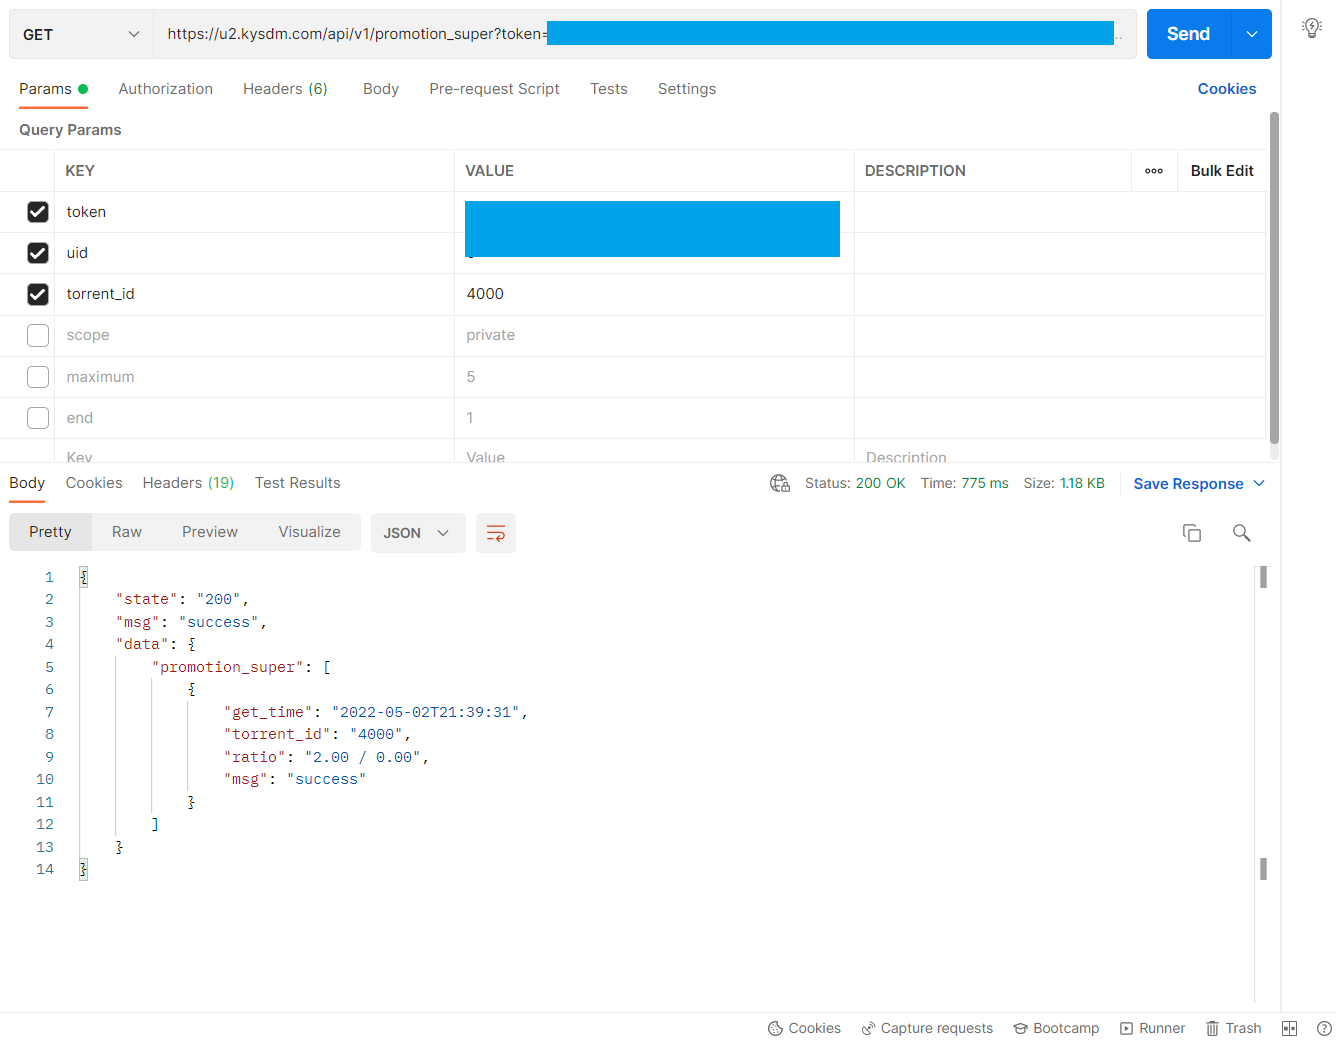
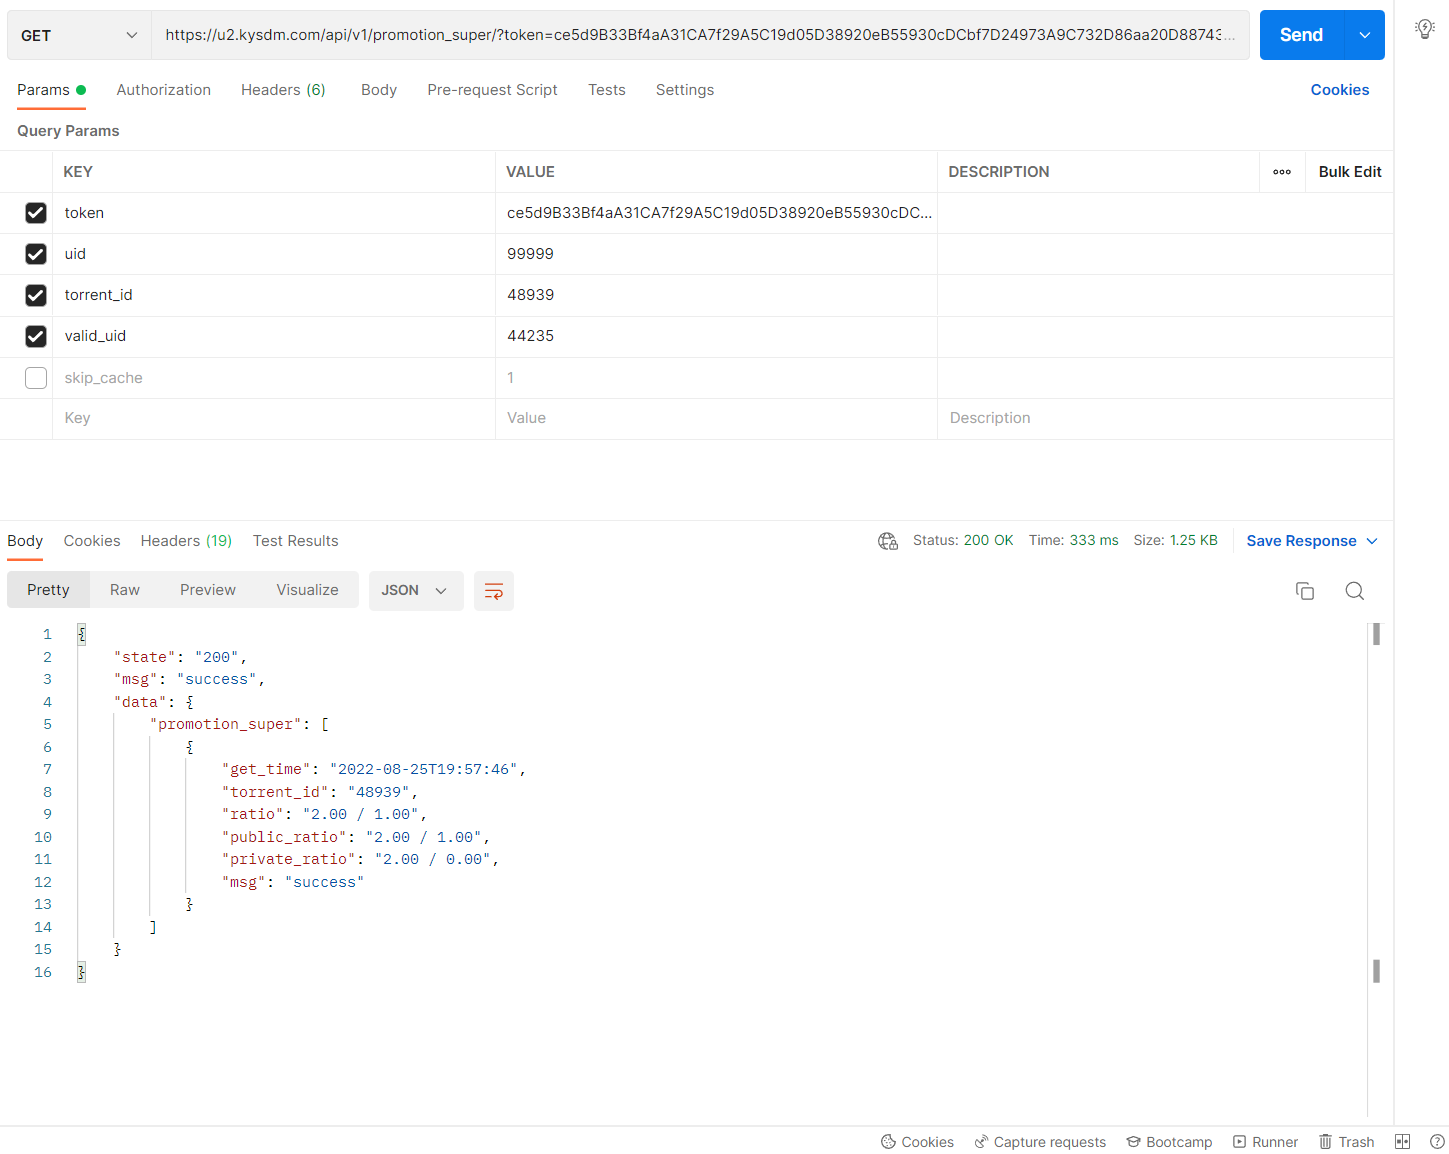
支持返回作用于特定用户的重叠魔法

diff --git a/README.md b/README.md
@@ -54,6 +54,9 @@
 > 请勿滥用此方法  
 > 返回的数据`get_time`时间无法满足需求时，再使用`skip_cache`参数跳过缓存进行请求。
 
+> 为兼容旧结构，保留`ratio`key  
+> `ratio`同`public_ratio`
+
 `GET` `https://u2.kysdm.com/api/v1/promotion_super`
 
 |  参数   | 数据类型  | 说明  |
@@ -61,6 +64,7 @@
 | uid  | int | u2账户id |
 | token  | str | 鉴权中返回的值 |
 | torrent_id | int | 种子ID |
+| valid_uid [optional] | int | 筛选对此用户生效的魔法(包含私有魔法)<br>默认为请求者的UID |
 | skip_cache [optional] | int | `0` 正常请求[默认]<br>`1` 跳过缓存请求 |
 
 ![](https://raw.githubusercontent.com/kysdm/u2_api/main/img/17.png)
@@ -142,7 +146,7 @@
 | uid  | int | u2账户id |
 | token  | str | 鉴权中返回的值 |
 | minseeder [optional] | int | 最小做种人数<br>默认值 `1`|
-| maxseeder [optional] | int | 最小做种人数<br>默认值 `1`|
+| maxseeder [optional] | int | 最大做种人数<br>默认值 `1`|
 | maximum [optional]| int | 返回数据条数<br>默认值 `10`<br>最大 `10000` |
 
 ![](https://raw.githubusercontent.com/kysdm/u2_api/main/img/19.png)
